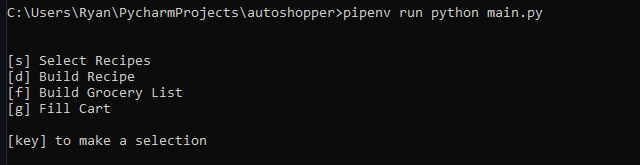
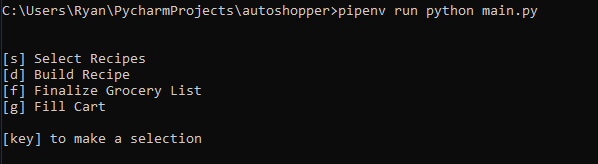
Changed menu text in main menu

Changed region(s): [[0.0, 0.3049, 0.3311, 0.7317], [0.0, 0.0305, 0.903, 0.122], [0.0, 0.7927, 0.3612, 0.9146]]

diff --git a/view.py b/view.py
@@ -264,7 +264,7 @@ class View:
         # Building context menu
         options = ['Select Recipes',
                    'Build Recipe',
-                   'Build Grocery List',
+                   'Finalize Grocery List',
                    'Fill Cart']
         # Reversing because the "first" option is the one nearest the bottom
         # and I want Select Recipes at the top

diff --git a/readme.md b/readme.md
@@ -27,11 +27,11 @@ a standard Kroger account (for online shopping).
 
 First run will require user input to provide consent from the standard kroger account to your new app. Once done:
 <br>
-    1) build new recipes <br>
-    2) select which ones you'd like to cook <br> 
-    3) construct the grocery list <br>
+    1) Build new recipes <br>
+    2) Select which ones you'd like to cook <br> 
+    3) Finalize the grocery list <br>
     4) Fill cart <br>
-    5) Finalize order through a web browser at kroger.com <br>
+    5) Confirm order on kroger.com
 
 <br><br>
 <b>Main Menu</b> - Navigate with key strokes as denoted on screen.
